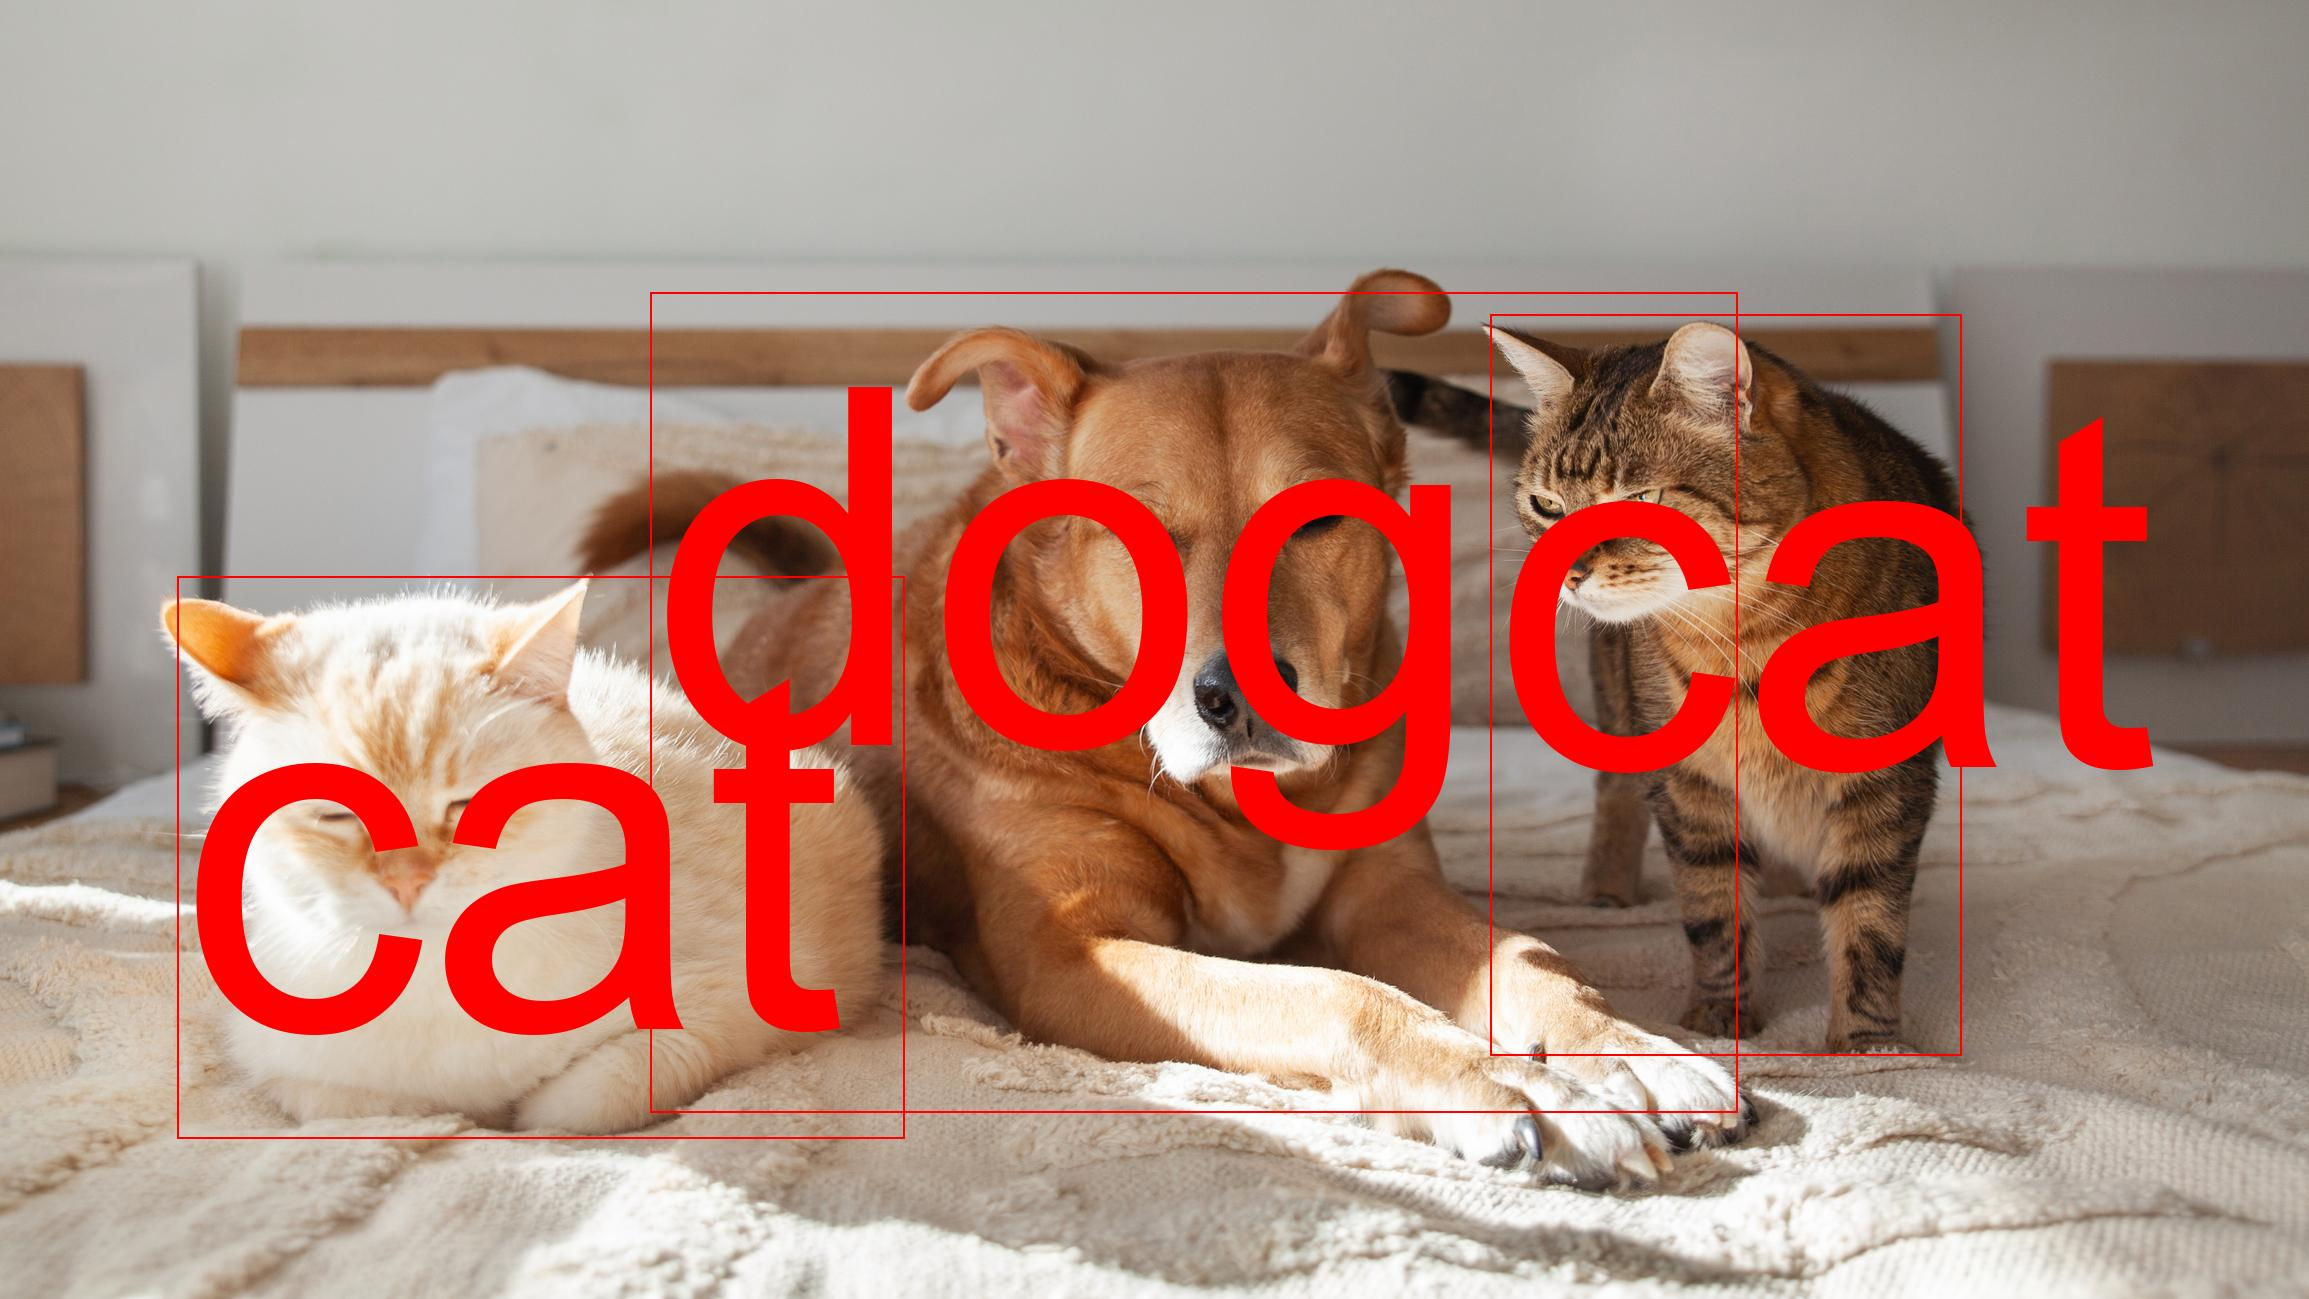
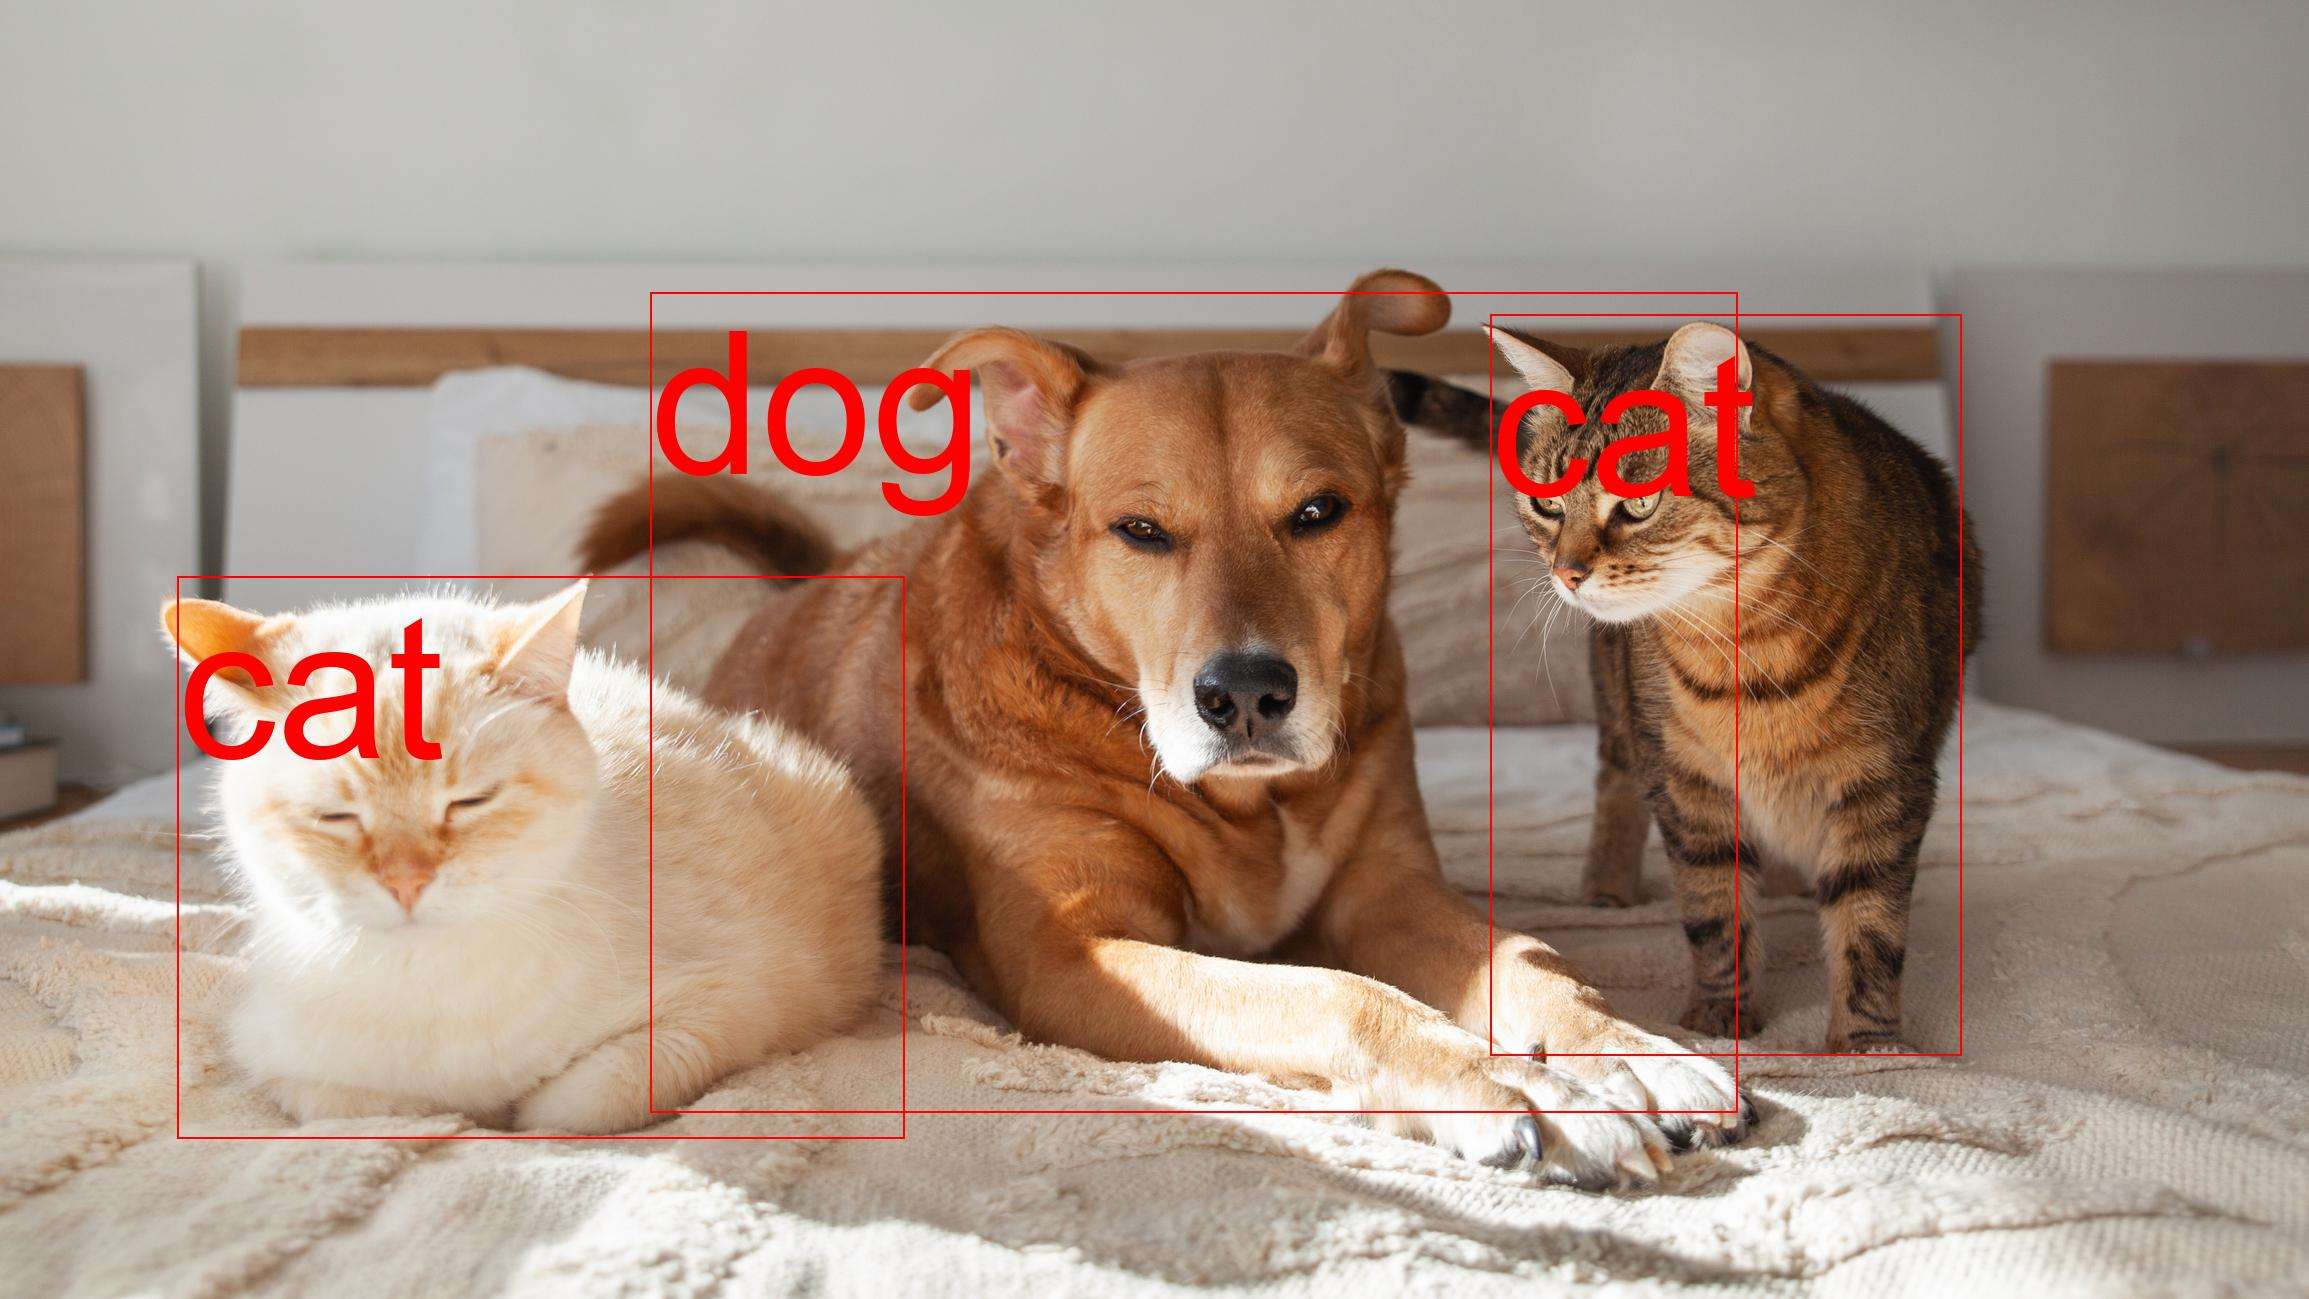
feat: roundbox

Changed region(s): [[0.0624, 0.2463, 0.9355, 0.8006]]

diff --git a/computervision2.py b/computervision2.py
@@ -55,9 +55,8 @@ def detect_objects(image_url):
         return response.json()
     else:
         raise Exception(f"Error: {response.status_code}, {response.text}")
-
-# Create bounding box
-def create_bounding_box(image_url, detection_result):
+    
+def download_image(image_url):
     try:
         # URL에서 이미지 다운로드
         response = requests.get(image_url)
@@ -84,43 +83,13 @@ def create_bounding_box(image_url, detection_result):
         image.save(original_path)
         print(f"Original image saved at: {original_path}")
         
+        # 이미지와 파일명 정보 반환
+        return image, name, ext
+        
     except Exception as e:
         raise Exception(f"Error downloading/opening image: {e}")
     
-    # Bounding box 그리기
-    draw = ImageDraw.Draw(image)
-    
-    # 폰트 사이즈 설정 (macOS Arial 경로 확인됨)
-    font = None
-    font_paths_to_try = [
-        "/System/Library/Fonts/Supplemental/Arial.ttf",
-        "/Library/Fonts/Arial Unicode.ttf",
-        "/System/Library/Fonts/Supplemental/Arial Bold.ttf",
-        "arial.ttf"  # Windows fallback
-    ]
-    
-    for font_path in font_paths_to_try:
-        try:
-            font = ImageFont.truetype(font_path, 500)
-            print(f"Successfully loaded font: {font_path} with size 500")
-            break
-        except Exception as e:
-            print(f"Failed to load {font_path}: {e}")
-            continue
-    
-    if font is None:
-        print("⚠ Using default font (size cannot be changed)")
-        font = ImageFont.load_default()
-    
-    for obj in detection_result.get('objects', []):
-        rectangle = obj.get('rectangle')
-        if rectangle:
-            x, y, w, h = rectangle.get('x', 0), rectangle.get('y', 0), rectangle.get('w', 0), rectangle.get('h', 0)
-            # Draw bounding box
-            draw.rectangle([x, y, x + w, y + h], outline='red', width=2)  # 선 두께 다시 얇게
-            # Draw label with much larger font
-            draw.text((x, y), obj.get('object', 'Unknown'), fill='red', font=font)
-    
+def save_image(image, name, ext):
     # Bounding box가 그려진 이미지 저장
     bbox_filename = f"{name}_with_bounding_box.{ext}"
     bbox_path = os.path.join("image", bbox_filename)
@@ -128,12 +97,81 @@ def create_bounding_box(image_url, detection_result):
     image.save(bbox_path)
     print(f"Image with bounding boxes saved at: {bbox_path}")
     image.show()  # Show the image with bounding boxes
+    
+def get_font(font_name, size):
+    # 폰트 사이즈 설정
+    font = None
+    font_paths_to_try = [
+        f"/System/Library/Fonts/Supplemental/{font_name}",  # macOS
+        f"/Library/Fonts/{font_name}",  # macOS
+        f"/usr/share/fonts/truetype/{font_name}",  # Linux
+        f"/usr/share/fonts/{font_name}",  # Linux
+        f"/usr/local/share/fonts/{font_name}",  # Linux
+        f"C:\\Windows\\Fonts\\{font_name}",  # Windows
+        "C:\\Windows\\Fonts\\Arial.ttf",  # Windows fallback
+        f"{font_name}"  # Windows fallback
+    ]
+    
+    for font_path in font_paths_to_try:
+        try:
+            font = ImageFont.truetype(font_path, size)
+            print(f"Successfully loaded font: {font_path} with size {size}")
+            break
+        except Exception as e:
+            continue
+    
+    if font is None:
+        print("⚠ Using default font (size cannot be changed)")
+        font = ImageFont.load_default()
+    return font
+    
+
+# Create bounding box
+def create_bounding_box(image_url, detection_result):
+    # 이미지 다운로드 및 파일명 정보 받기
+    image, name, ext = download_image(image_url)
+    
+    # Bounding box 그리기
+    draw = ImageDraw.Draw(image)
+    font = get_font("arial.ttf", 200)
+    
+    for obj in detection_result.get('objects', []):
+        rectangle = obj.get('rectangle')
+        if rectangle:
+            x, y, w, h = rectangle.get('x', 0), rectangle.get('y', 0), rectangle.get('w', 0), rectangle.get('h', 0)
+            # Draw bounding box
+            draw.rectangle([x, y, x + w, y + h], outline='red', width=2)
+            # Draw label with larger font
+            draw.text((x, y), obj.get('object', 'Unknown'), fill='red', font=font)
+    
+    save_image(image, name, ext)
+    
+    
+def ocr_image(image_url):
+    # OCR (Optical Character Recognition) API 호출
+    ocr_url = ENDPOINT + "vision/v3.2/ocr"
+    
+    headers = {
+        'Ocp-Apim-Subscription-Key': SUBSCRIPTION_KEY,
+        'Content-Type': 'application/json'
+    }
+    
+    data = {
+        'url': image_url
+    }
+    
+    response = requests.post(ocr_url, headers=headers, json=data)
+    
+    if response.status_code == 200:
+        return response.json()
+    else:
+        raise Exception(f"Error: {response.status_code}, {response.text}")
 
 
 def main():
     image_url = input("Enter the image URL: ")
     
-    choice = input("Choose analysis type (1: Analyze Image, 2: Detect Objects, 3: Bounding box): ")
+    choice = input("Choose analysis type (1: Analyze Image, 2: Detect Objects, 3: Bounding box, 4: OCR): ")
     
     try:
         if choice == '1':
@@ -174,9 +212,23 @@ def main():
             
             # Create bounding box
             create_bounding_box(image_url, detection_result)
+            
+        elif choice == '4':
+            ocr_result = ocr_image(image_url)
+            print("\n=== OCR Result ===")
+            print(ocr_result)
+            
+            # OCR 결과 출력
+            if 'regions' in ocr_result:
+                for region in ocr_result['regions']:
+                    for line in region.get('lines', []):
+                        line_text = ' '.join([word['text'] for word in line.get('words', [])])
+                        print(f"Line: {line_text}")
+            else:
+                print("No text detected.")
                 
         else:
-            print("Invalid choice. Please select 1, 2, or 3.")
+            print("Invalid choice. Please select 1, 2, 3, or 4.")
             
     except Exception as e:
         print(f"An error occurred: {e}")

diff --git a/computervision.py b/computervision.py
@@ -90,7 +90,7 @@ def create_bounding_box(image_url, detection_result):
     # Bounding box 그리기
     draw = ImageDraw.Draw(image)
     
-    # 폰트 사이즈 설정 (큰 폰트)
+    # 폰트 사이즈 설정
     try:
         # macOS
         font = ImageFont.truetype("/System/Library/Fonts/Helvetica.ttc", 100)
